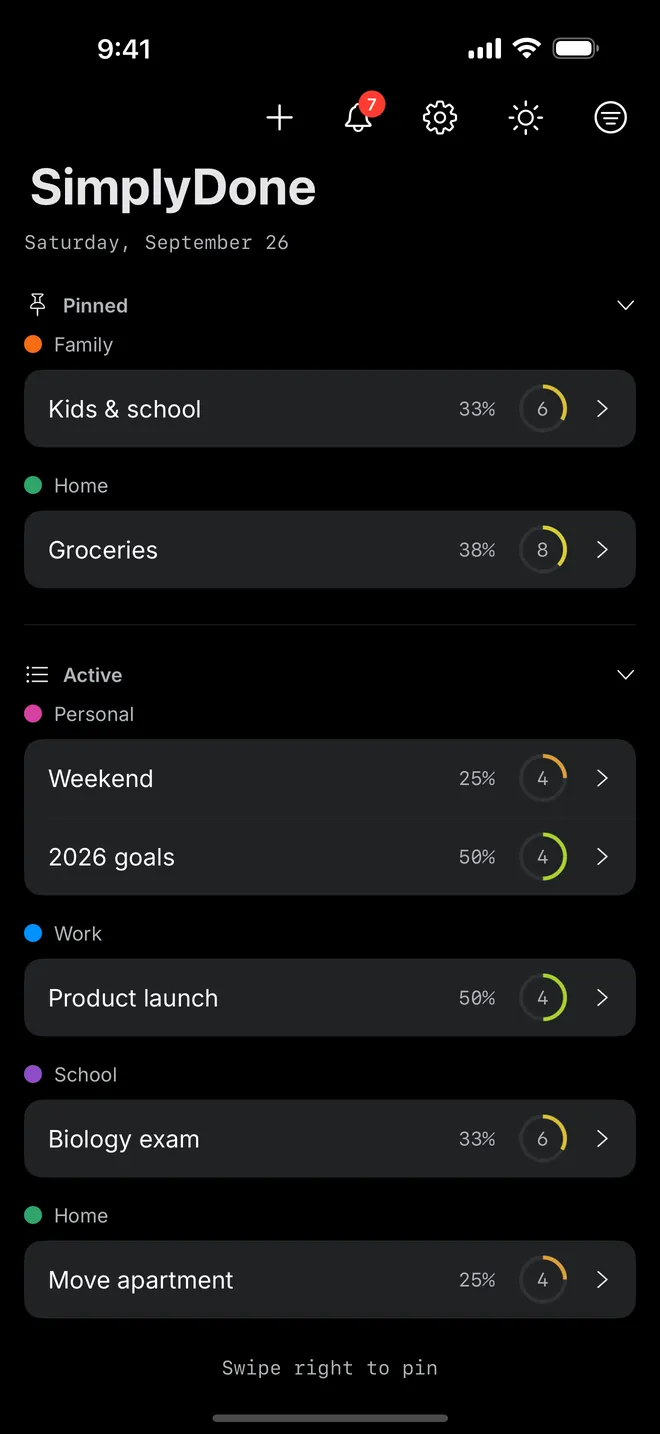
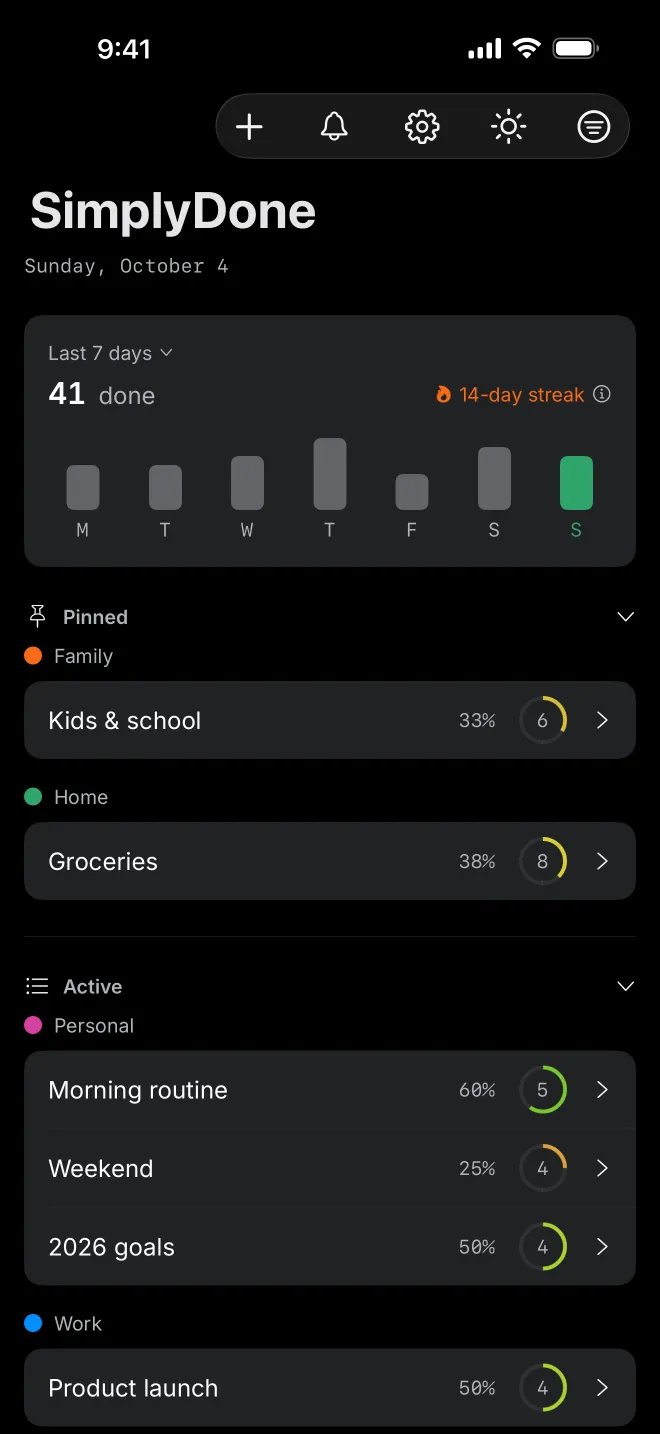
feature: 1.2.0 changelog and app previews
- Add 1.2.0 to What's New, released Oct 5, 2026: progress card and streak with Pro, swipe to hide the card, Free and Pro comparison, check-off pop and tap, and two fixes
- Date 1.1.0 as Oct 4, 2026 and add its Oct 4 update: weekly lists can repeat on several days
- Home page: add the progress preview after "Just check it off", with its caption "See your progress."
- Replace the dark mode preview with the 1.2.0 one showing the progress card, and update its alt text
- Pro card now lists progress and streak alongside repeating lists

diff --git a/index.html b/index.html
@@ -34,6 +34,10 @@
           <div class="phone"><img src="todo/images/check.webp" width="660" height="1434" alt="A grocery list with some items checked off" loading="lazy" /></div>
         </figure>
         <figure>
+          <figcaption><strong>See your progress.</strong> Your daily count and streak, with Pro.</figcaption>
+          <div class="phone"><img src="todo/images/progress.webp" width="660" height="1434" alt="The progress card on the main screen, with tasks done each day and a 14-day streak" loading="lazy" /></div>
+        </figure>
+        <figure>
           <figcaption><strong>Make it a routine.</strong> Repeating lists and History, with Pro.</figcaption>
           <div class="phone"><img src="todo/images/routine.webp" width="660" height="1434" alt="History of a repeating morning list, with the time each task was done" loading="lazy" /></div>
         </figure>
@@ -55,7 +59,7 @@
         </figure>
         <figure>
           <figcaption><strong>No sign-up. Just start.</strong> Your lists never leave your iPhone.</figcaption>
-          <div class="phone"><img src="todo/images/dark.webp" width="660" height="1434" alt="The main screen in dark mode" loading="lazy" /></div>
+          <div class="phone"><img src="todo/images/dark.webp" width="660" height="1434" alt="The main screen in dark mode, with the progress card" loading="lazy" /></div>
         </figure>
       </section>
 
@@ -103,7 +107,7 @@
         </div>
         <div class="card">
           <p class="label">SimplyDone Pro</p>
-          <p>Unlimited lists and tasks, plus repeating lists. Buy it once and keep it for good. No subscription.</p>
+          <p>Unlimited lists and tasks, plus repeating lists, progress and streak. Buy it once and keep it for good. No subscription.</p>
         </div>
       </div>
 

diff --git a/todo/changelog/index.html b/todo/changelog/index.html
@@ -12,8 +12,36 @@
       <h1>What's New</h1>
       <p class="subtitle">SimplyDone - ToDo &amp; Tasks · Every version, newest first</p>
 
+      <h2>1.2.0</h2>
+      <p class="label">Release · Oct 5, 2026</p>
+      <div class="card">
+        <p><strong>New</strong></p>
+        <ul>
+          <li>See how many tasks you finish each day, week or month, and your streak, on a card at the top of the main screen. Pick a range or a group from its menu. With Pro.</li>
+          <li>Swipe the card left or right to hide it, and turn it back on in Settings › Progress.</li>
+          <li>The SimplyDone Pro page shows what Free and Pro each include.</li>
+        </ul>
+        <p><strong>Improved</strong></p>
+        <ul>
+          <li>Checking off a task gives a little pop and a tap, and a finished list shows a check in its ring.</li>
+        </ul>
+        <p><strong>Fixed</strong></p>
+        <ul>
+          <li>Info bubbles show their whole text and close when you tap outside them.</li>
+          <li>If you finish a pinned list by mistake, uncheck a task and it goes back to Pinned.</li>
+        </ul>
+      </div>
+
       <h2>1.1.0</h2>
-      <p class="label">Release · To Be Announced</p>
+      <p class="label">Update · Oct 4, 2026</p>
+      <div class="card">
+        <p><strong>Improved</strong></p>
+        <ul>
+          <li>A weekly list can repeat on several days, such as Monday, Wednesday and Friday.</li>
+        </ul>
+      </div>
+
+      <p class="label">Release · Oct 4, 2026</p>
       <div class="card">
         <p><strong>New</strong></p>
         <ul>
